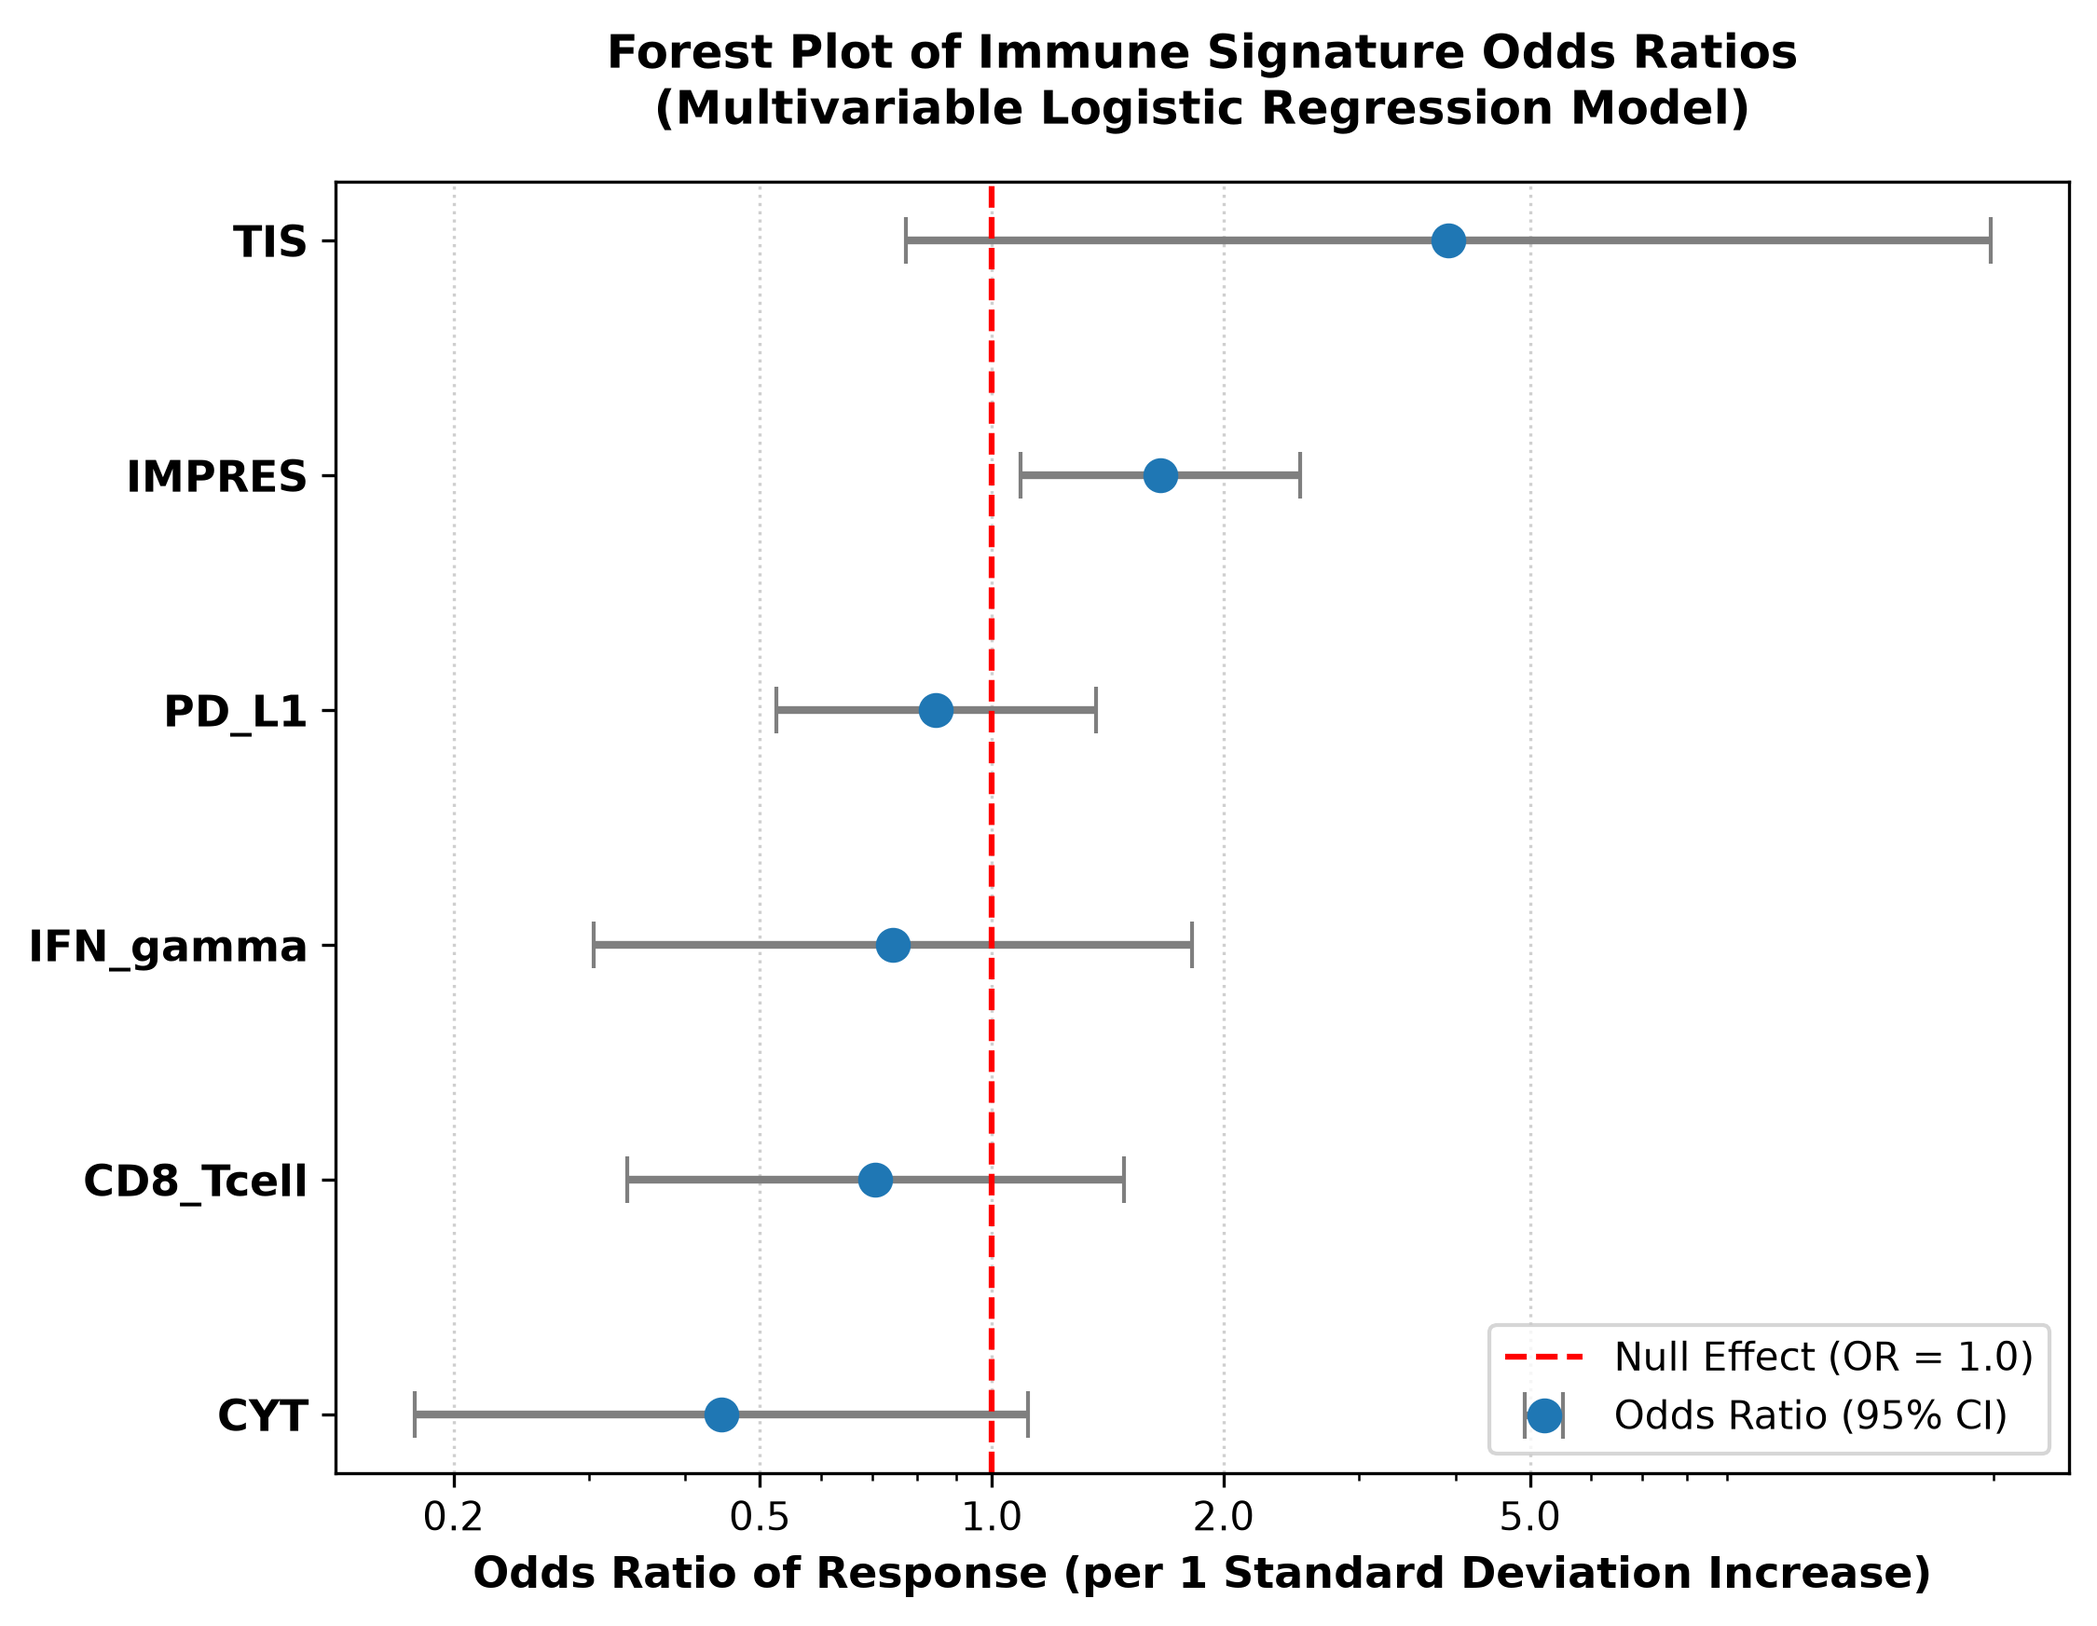
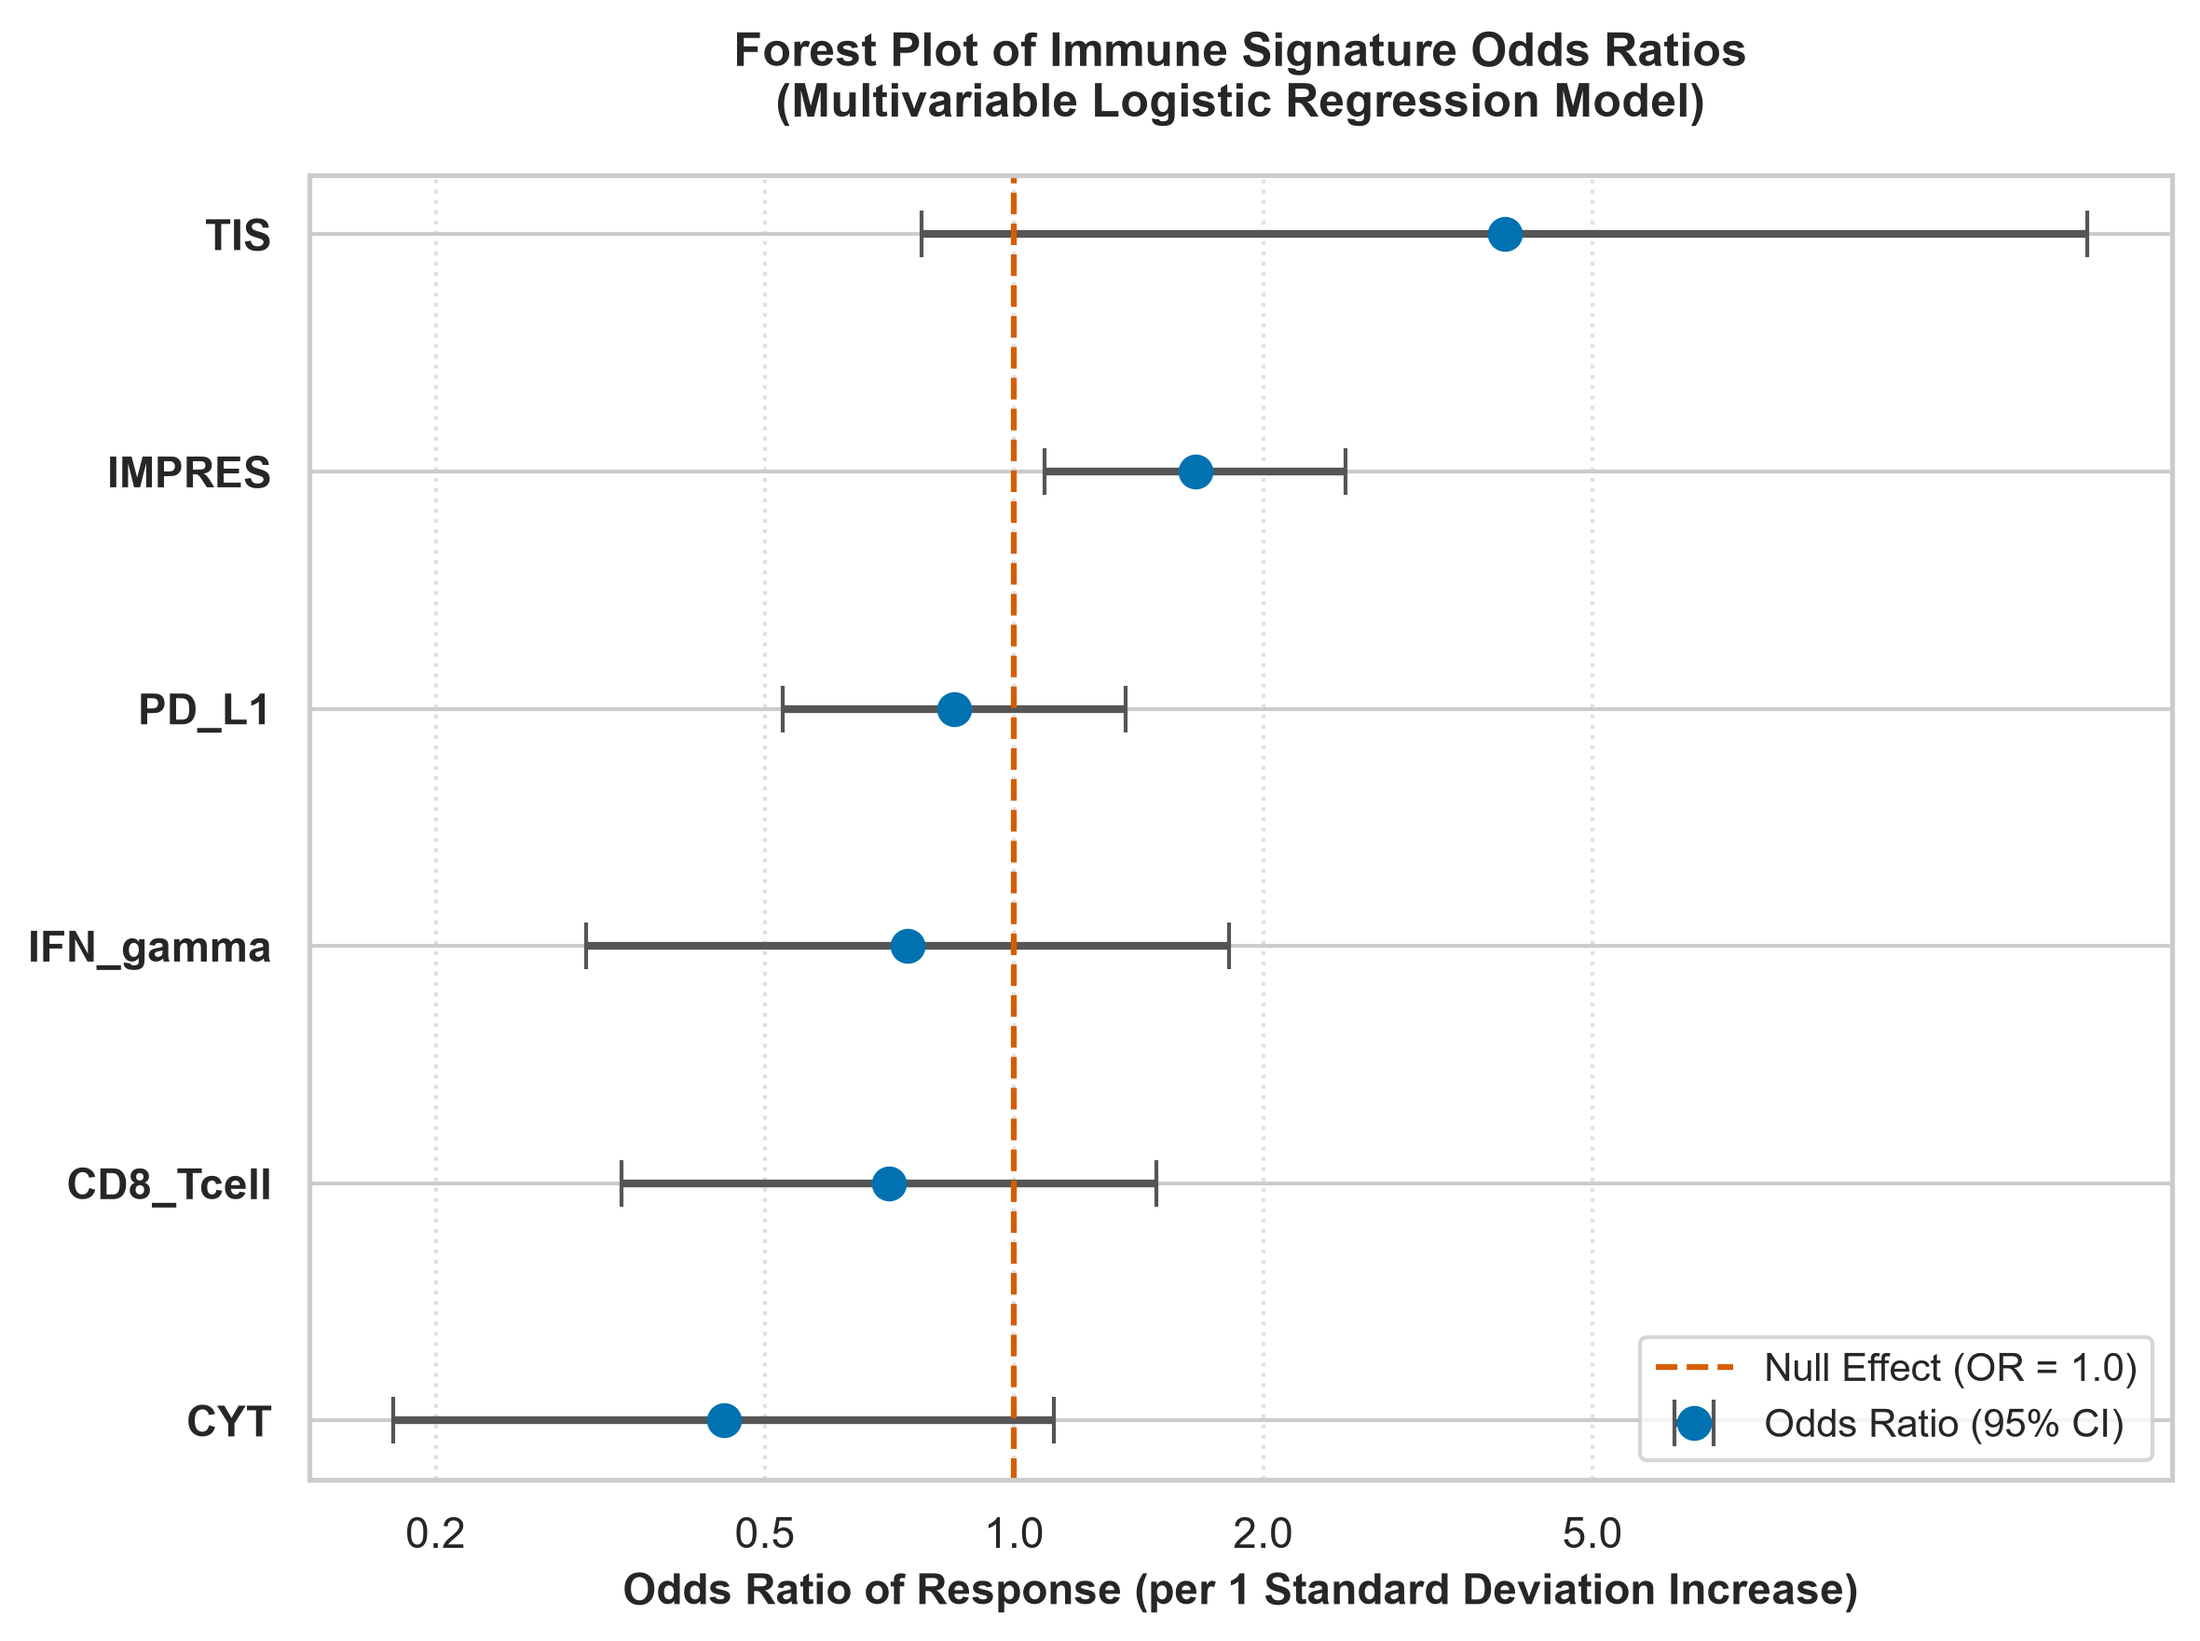
chore: add .gitattributes to enforce LF line endings and normalise existing files

diff --git a/q1-response-predictor/scripts/exploratory_plots/run_extra_plots.py b/q1-response-predictor/scripts/exploratory_plots/run_extra_plots.py
@@ -22,6 +22,11 @@ from src.data_loaders import load_liu_2019, load_hugo_2016, load_riaz_2017
 from src.signatures import extract_all_signatures
 from pycombat import Combat
 
+from src.styles import COHORT_PALETTE, RESPONSE_PALETTE, set_presentation_style
+
+# Set style
+set_presentation_style()
+
 # Paths
 DATA_DIR = BASE_DIR / "data"
 PLOT_DIR = BASE_DIR / "plots"
@@ -87,6 +92,9 @@ def main():
     print("==================================================")
     
     # Box plots + Jitter (stripplot)
+    box_palette = {'Responder': '#99D8C9', 'Non-Responder': '#FCAE91'}       # Muted green / vermillion fill
+    strip_palette = {'Responder': RESPONSE_PALETTE['CR/PR'], 'Non-Responder': RESPONSE_PALETTE['PD']} # Okabe-Ito Bluish Green & Vermillion Red
+
     fig, axes = plt.subplots(2, 3, figsize=(15, 10))
     axes = axes.ravel()
     for i, col in enumerate(sig_corrected.columns):
@@ -99,14 +107,14 @@ def main():
         non_resp_scores = df_plot[df_plot['Response'] == 'Non-Responder']['Score']
         stat, p_val = mannwhitneyu(resp_scores, non_resp_scores, alternative='two-sided')
         
-        # Draw Boxplot with light/muted colors
+        # Draw Boxplot with light Okabe-Ito tints
         sns.boxplot(x='Response', y='Score', data=df_plot, ax=ax, 
-                    palette={'Responder': '#ffb3b3', 'Non-Responder': '#e1ccff'}, 
+                    palette=box_palette, 
                     showfliers=False, width=0.5, hue='Response', legend=False)
-        # Overlay Jittered Stripplot
+        # Overlay Jittered Stripplot with full Okabe-Ito colors
         sns.stripplot(x='Response', y='Score', data=df_plot, ax=ax, 
-                      palette={'Responder': '#d62728', 'Non-Responder': '#9467bd'}, 
-                      jitter=True, size=4, alpha=0.6, dodge=False, hue='Response', legend=False)
+                      palette=strip_palette, 
+                      jitter=True, size=4, alpha=0.7, dodge=False, hue='Response', legend=False)
         
         ax.set_title(f"{col}\n(Wilcoxon p = {p_val:.2e})", fontsize=11, fontweight='bold')
         ax.set_xlabel("")
@@ -164,11 +172,11 @@ def main():
     plt.errorbar(
         df_forest['OddsRatio'], y_pos, 
         xerr=[df_forest['OddsRatio'] - df_forest['CILower'], df_forest['CIUpper'] - df_forest['OddsRatio']],
-        fmt='o', color='#1f77b4', ecolor='#7f7f7f', elinewidth=2, capsize=6, markersize=8,
+        fmt='o', color=COHORT_PALETTE['Liu 2019'], ecolor='#555555', elinewidth=2, capsize=6, markersize=8,
         label='Odds Ratio (95% CI)'
     )
     
-    plt.axvline(x=1.0, color='r', linestyle='--', linewidth=1.5, label='Null Effect (OR = 1.0)')
+    plt.axvline(x=1.0, color='#D55E00', linestyle='--', linewidth=1.5, label='Null Effect (OR = 1.0)')
     
     plt.yticks(y_pos, df_forest['Feature'], fontsize=11, fontweight='bold')
     plt.xlabel("Odds Ratio of Response (per 1 Standard Deviation Increase)", fontsize=11, fontweight='bold')

diff --git a/q1-response-predictor/scripts/clinical_analysis/run_clinical_feature_selection.py b/q1-response-predictor/scripts/clinical_analysis/run_clinical_feature_selection.py
@@ -198,7 +198,10 @@ def main():
     })
     
     fig, ax = plt.subplots(figsize=(11, 8.5))
-    colors = sns.color_palette("mako", n_colors=len(df_plot))[::-1]
+    # Use Okabe‑Ito palette for visual consistency
+    from itertools import cycle
+    okabe_colors = list(COHORT_PALETTE.values())
+    colors = [next(cycle(okabe_colors)) for _ in range(len(df_plot))]
     bars = ax.barh(df_plot['Formatted_Feature'][::-1], df_plot['Importance'][::-1], color=colors, edgecolor='none', height=0.75)
     for bar in bars:
         width = bar.get_width()

diff --git a/q1-response-predictor/reports/clinical_clustering_results.md b/q1-response-predictor/reports/clinical_clustering_results.md
@@ -1,0 +1,57 @@
+# Patient Phenotyping via Clinical & Genomic Clustering
+
+We performed unsupervised phenotyping on the **TCGA-SKCM** cohort ($N = 426$ patients) using Agglomerative Hierarchical Clustering (Ward linkage). Patient profiles were constructed across demographics, tumor genetics, microenvironmental stress, and adjuvant therapy classes.
+
+## Cluster Profiles
+The average clinical and genomic values for each patient cluster are detailed below in a transposed summary table:
+
+| Feature / Clinicopathological Metric   | Cluster 0 (N=312)   | Cluster 1 (N=112)   | Cluster 2 (N=24)   |
+|:---------------------------------------|:--------------------|:--------------------|:-------------------|
+| **Demographics & Baseline**            |                     |                     |                    |
+| Patient Count (N)                      | 312                 | 112                 | 24                 |
+| Age (Years, Mean)                      | 58.8                | 54.3                | 54.9               |
+| **Genomics**                           |                     |                     |                    |
+| TMB (Nonsynonymous, Mean Mut/Mb)       | 24.9                | 31.4                | 14.0               |
+| Aneuploidy Score (Mean)                | 13.1                | 12.9                | 11.8               |
+| **Microenvironment**                   |                     |                     |                    |
+| Winter Hypoxia Score (Mean)            | -2.57               | -1.61               | -2.33              |
+| **Adjuvant Treatment History**         |                     |                     |                    |
+| Chemotherapy Received (%)              | 0.0%                | 58.0%               | 12.5%              |
+| Immunotherapy Received (%)             | 0.0%                | 63.4%               | 0.0%               |
+| Radiation Therapy Received (%)         | 21.5%               | 37.5%               | 20.8%              |
+| **Clinical Presentation**              |                     |                     |                    |
+| Primary Specimen Type (%)              | 19.9%               | 14.3%               | 12.5%              |
+| Stage IV Metastatic Disease (%)        | 0.0%                | 0.0%                | 100.0%             |
+| **Prognosis & Outcomes**               |                     |                     |                    |
+| Median Overall Survival                | 93.0 months         | 66.5 months         | 28.1 months        |
+
+## Clinical Interpretation of Clusters
+
+Based on the multi-dimensional profiles, the three clusters represent distinct disease states:
+
+1.  **Cluster 0: Baseline Disease / Primary Specimen Phenotype** ($N=312$)
+    *   *Genomics*: Moderate chromosomal instability (aneuploidy score = 13.1) and moderate TMB (24.9 mut/Mb).
+    *   *Microenvironment*: Low-moderate Winter hypoxia score (-2.57).
+    *   *Clinical*: Stage IV rate = 0.0%. Highest rate of primary specimens (19.9%). No immunotherapy (0.0%).
+    *   *Prognosis*: Better overall survival trajectory.
+
+2.  **Cluster 1: High Mutational Load & Immunotherapy Phenotype** ($N=112$)
+    *   *Genomics*: Elevated copy-number alterations (aneuploidy score = 12.9) and the highest mutational load (**TMB = 31.4 mut/Mb**).
+    *   *Microenvironment*: Low-moderate Winter hypoxia score (-1.61).
+    *   *Clinical*: Stage IV rate = 0.0%. Lower primary tumor rate (14.3%). High rate of immunotherapy (63.4%).
+    *   *Prognosis*: Moderate survival trajectory.
+
+3.  **Cluster 2: Stage IV / Advanced Metastatic Disease Phenotype** ($N=24$)
+    *   *Genomics*: Lower mutational load (TMB = 14.0 mut/Mb) and lowest copy-number alterations (aneuploidy score = 11.8).
+    *   *Clinical*: **100% of these patients have Stage IV disease**. No patients received immunotherapy (0.0%).
+    *   *Prognosis*: Poor overall survival trajectory (Stage IV baseline) (Median Overall Survival = **28.1 months**).
+
+## Cluster Visualisation (2D PCA Projection)
+Below is a 2D PCA projection of the multi-dimensional patient profiles, showing the distinct separation of the three clinical-genomic patient groups. The 'X' markers show the cluster centroids:
+
+![2D PCA Visualization of Clusters](../plots/clinical/pca_clinical_clusters.png)
+
+## Kaplan-Meier Survival Analysis
+The unsupervised patient clusters show a highly statistically significant separation in overall survival duration (Log-Rank p-value = **\(1.82e-02\)**):
+
+![KM Survival of Clinical Clusters](../plots/clinical/km_clinical_clusters.png)

diff --git a/q1-response-predictor/reports/clinical_feature_selection_results.md b/q1-response-predictor/reports/clinical_feature_selection_results.md
@@ -1,0 +1,35 @@
+# Clinical Feature Selection Report
+
+This report documents the results of feature selection run on the cleaned clinical dataset of the **TCGA-SKCM** cohort.
+
+## Dataset Characteristics
+*   **Total samples analyzed**: 441
+*   **Original columns**: 57
+*   **Encoded feature columns size**: 78
+
+### Excluded Columns Groupings
+*   **Identifiers and Administrative**: ['PATIENT_ID', 'SAMPLE_ID', 'ICD_10', 'ICD_O_3_HISTOLOGY', 'ICD_O_3_SITE']
+*   **Outcome Variables**: ['OS_STATUS', 'OS_MONTHS', 'PFS_STATUS', 'PFS_MONTHS', 'DSS_STATUS', 'DSS_MONTHS']
+*   **Redundant variables**: ['DAYS_LAST_FOLLOWUP', 'PERSON_NEOPLASM_CANCER_STATUS']
+*   **Socioeconomic/healthcare confounders**: ['ETHNICITY', 'GENETIC_ANCESTRY_LABEL', 'RACE', 'PRIOR_DX']
+*   **Collection process artefacts**: ['TISSUE_SOURCE_SITE', 'TISSUE_SOURCE_SITE_CODE', 'MSI_SCORE_MANTIS', 'MSI_SENSOR_SCORE', 'TBL_SCORE']
+*   **Treatment Type**: ['HISTORY_NEOADJUVANT_TRTYN', 'NEW_TUMOR_EVENT_AFTER_INITIAL_TREATMENT', 'RADIATION_THERAPY', 'TREATMENT_TYPES', 'TREATMENT_AGENTS', 'TX_TYPE_RADIATION_THERAPY', 'TX_TYPE_CHEMOTHERAPY', 'TX_TYPE_IMMUNOTHERAPY', 'TX_TYPE_VACCINE', 'TX_TYPE_HORMONE_THERAPY', 'TX_TYPE_TARGETED_MOLECULAR_THERAPY', 'TX_TYPE_ANCILLARY', 'TX_TYPE_OTHER', 'TX_AGENT_IPILIMUMAB', 'TX_AGENT_PEMBROLIZUMAB', 'TX_AGENT_NIVOLUMAB', 'TX_AGENT_VEMURAFENIB', 'TX_AGENT_DABRAFENIB', 'TX_AGENT_TRAMETINIB', 'TX_AGENT_DACARBAZINE', 'TX_AGENT_TEMOZOLOMIDE', 'TX_AGENT_INTERFERON']
+
+## Method 1: Random Forest Classifier Importance
+A Random Forest classifier was trained to predict **Overall Survival status (OS_STATUS)** using all clinical variables. Features are ranked by their Gini importance.
+
+### Feature Importance Visualization
+![Random Forest Classifier Feature Importance](../plots/clinical/clinical_feature_importance.png)
+
+## Method 2: Cox Proportional Hazards Regression (Univariate)
+Univariate Cox Proportional Hazards models were fitted to assess the association of each individual feature with overall survival time (`OS_MONTHS`) and survival status (`OS_STATUS`). Features are sorted by statistical significance (lowest p-value).
+
+### Cox Proportional Hazards Forest Plot
+![Cox Forest Plot](../plots/clinical/cox_forest_plot.png)
+
+## Key Findings & Biological Summary
+1.  **Random Forest Top Predictor**: The feature with the highest predictive value for binary overall survival status is **`Weight`**.
+2.  **Cox Regression Top Predictor**: The feature most statistically associated with survival duration is **`Primary Tumour (T) Staging: T4b`** (univariate Cox p-value = `2.09e-11`, Hazard Ratio = `3.190`).
+3.  **Pathology vs Sourcing**: Pathology staging features (like AJCC Stage or Primary Tumour (T) Staging dummy variables) rank highly across both models, validating the clinical value of anatomical staging.
+4.  **TMB & Hypoxia**: Quantitative metrics (e.g. `TMB_NONSYNONYMOUS` or hypoxia scores) are highly ranked, highlighting the coupling between genomic mutations/tumor microenvironment stress and overall survival outcomes.
+5.  **Sample Type & Primary Disease**: Primary tumor samples (`SAMPLE_TYPE_Primary`) show significantly higher hazard ratios (HR = `3.34`, univariate Cox p-value = `3.50e-08`) compared to metastatic samples in this cohort, representing a distinct risk profile.
